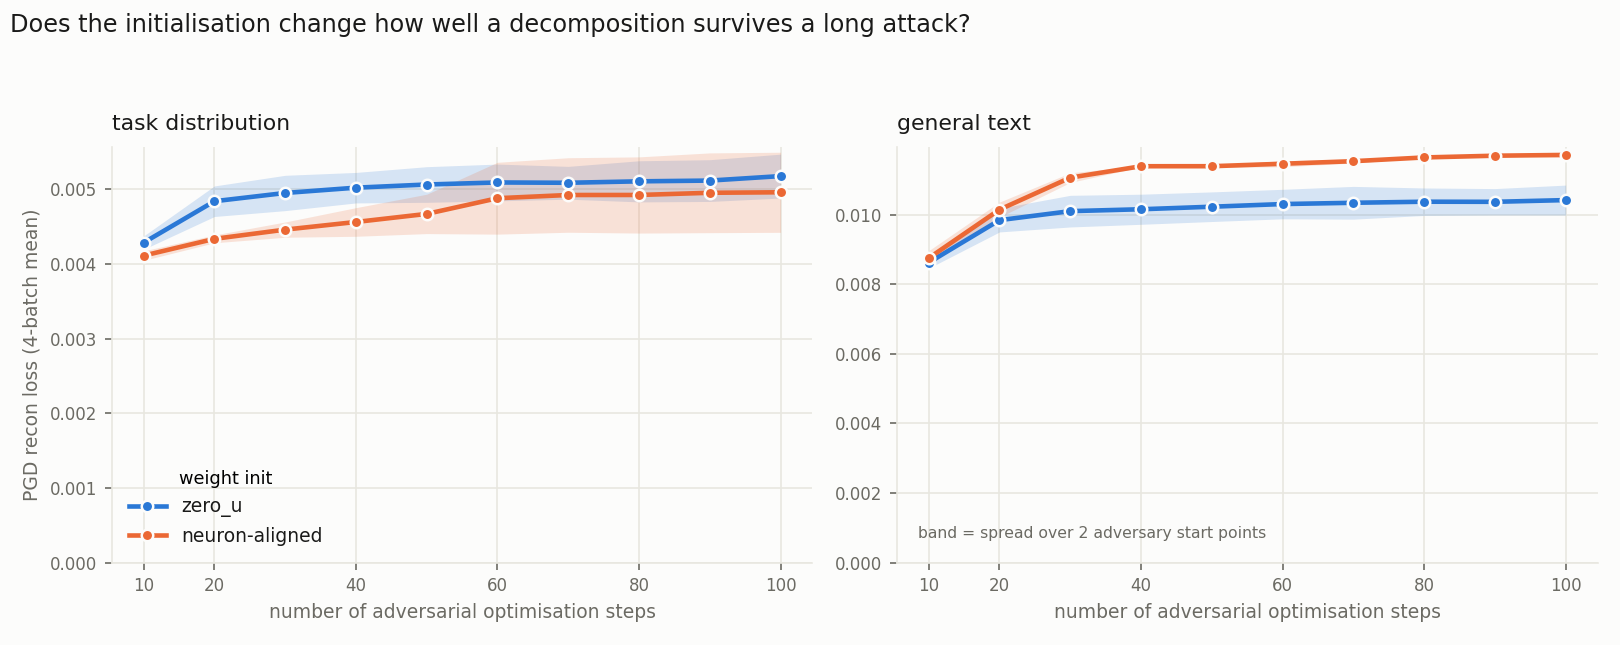
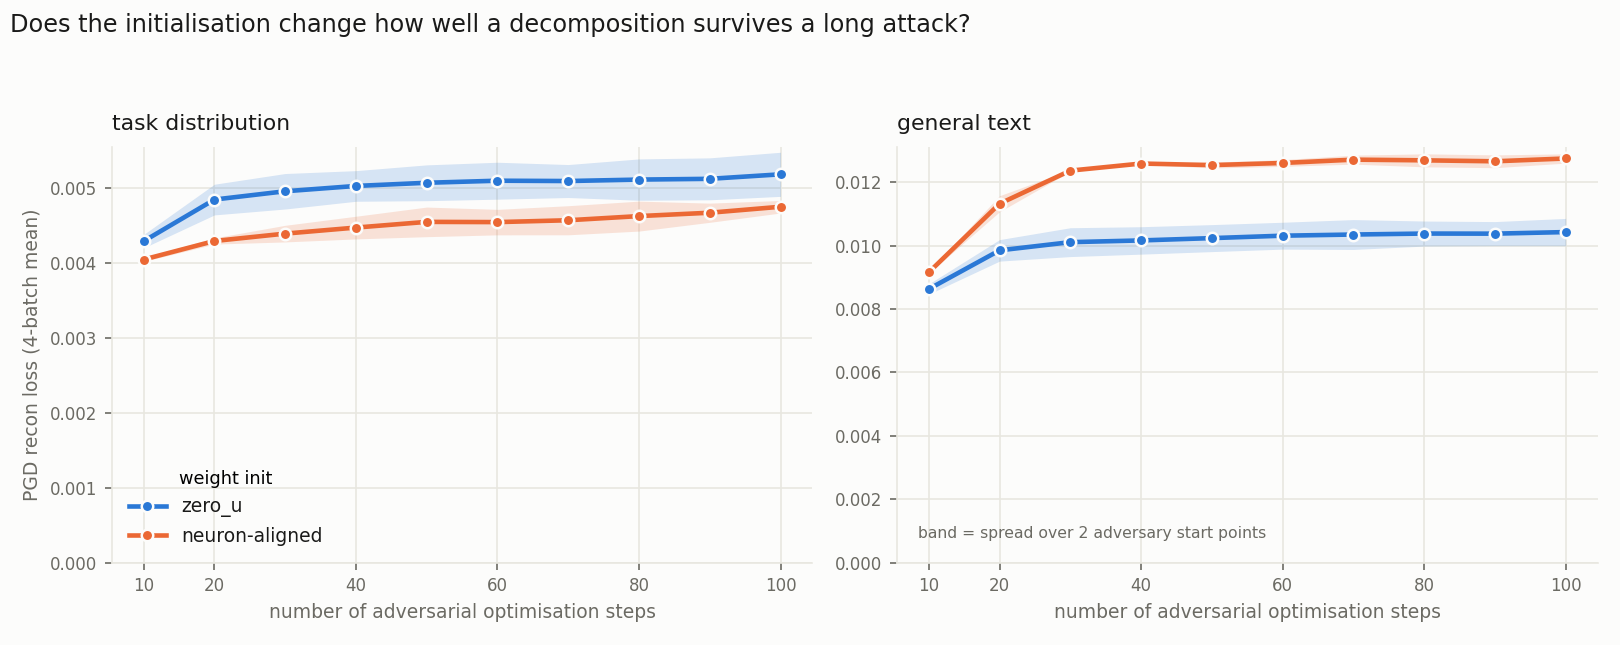
docs: init robustness on the current neuron-aligned run
Replaces p-222d379b (addsub-L18-18, pre-#1001 pd.weight_init schema) with
p-6540dfdd (addsub-L18-23, post-#1001), which is the current aligned init and
covers every site kind including attention.

- general text: aligned is ~22% easier to attack at 100 steps (0.0127 vs 0.0104),
  more than twice either run's own adversary-start spread - the older run read 12%
- task distribution: aligned is ~10% HARDER to attack (0.0047 vs 0.0052), a new
  direction the older pairing could not resolve (its spread reached 24%)
- both inits still saturate by ~40 steps, so the nonlinearity penalty's runaway
  remains specific to that penalty

The two runs straddle #1001 and no single build opens both; verified before
comparing that the probe computation is identical across the merge (core recon/
adversary/masking/recon byte-identical, eval-side change a pure refactor) and
that probe inputs match, so the curves are comparable. Recorded in the caveats.

Claude-Session: https://claude.ai/code/session_011EqWYtK2A5PugNTcQx2iAE

diff --git a/notes/report_init_pgd_robustness.md b/notes/report_init_pgd_robustness.md
@@ -3,59 +3,66 @@
 **Question.** Two L18 decompositions differing only in how their components were
 initialised — does one survive a long PGD attack better than the other?
 
-**Runs.** Both 20 000 steps, both opened and measured by *one* copy of the probe code, so
-this is immune to the eval-definition drift across the #1000 merge that made the runs' own
-logged metrics incomparable.
+**Runs.** Both 20 000 steps.
 
 | run | init |
 |---|---|
-| `p-88665048` | `zero_u` |
-| `p-222d379b` | `neuron_aligned_targeted` |
-
-A key-by-key config diff gives **4 differing keys**: `pd.weight_init`, the two
-`pd.neuron_ranks` fields the aligned init requires, and `run_name`. Nothing else.
+| `p-88665048` (`addsub-L18-22-zerou`) | `zero_u` |
+| `p-6540dfdd` (`addsub-L18-23-neuronaligned`) | `neuron_aligned_targeted` |
 
 **Probe.** Fresh PGD on the output CI head, end-to-end output KL, 4 fixed batches,
-10→100 steps, 2 adversary start points. Non-target arm is delta-pinned (SPEC T4).
-
-`zero_v` (`p-f73bde9d`) is excluded: it stopped at 7 505 steps and is not comparable.
+10→100 steps, 2 adversary start points, source shape `c` (one mask per site, shared across
+batch and position). Non-target arm is delta-pinned (SPEC T4).
 
 ![PGD vs adversarial steps by init](plots/init_pgd/01_init_pgd_vs_steps.png)
 
 ## What it shows
 
-**General text — the aligned init ends up ~12% easier to attack.** At 100 steps
-0.0117 against 0.0104. Both curves flatten by about 40 steps; the aligned run simply
-settles on a higher plateau.
+**General text — the aligned init is ~22% easier to attack.** At 100 steps 0.0127 against
+0.0104, and the gap opens from 20 steps onward. This one is solid: the between-init gap is
+more than twice either run's own spread across adversary start points (2% aligned, 9%
+`zero_u`).
 
-That gap is real but slim. `zero_u`'s own spread between the two adversary start points is
-8–9%, so the between-init difference is only just outside the within-init noise. Two start
-points and one training seed cannot separate them further.
+**Task distribution — the aligned init is ~10% *harder* to attack.** 0.0047 against 0.0052
+at 100 steps. Smaller than the off-distribution effect and only marginally outside the
+noise (`zero_u`'s own spread is 12% at that budget), so treat it as a hint, not a result.
 
-**Task distribution — no difference worth reporting.** The means sit within 5% of each
-other and the bands overlap across the whole sweep. The aligned run's spread between start
-points reaches **24%** at high budget, several times any gap between the schemes.
+So the alignment appears to buy a little on-distribution robustness and pay more for it
+off-distribution.
 
-**Neither init runs away.** Both saturate. This matters as a control for the nonlinearity
-penalty work: there, the penalised runs kept climbing to 2.5–3× while the control flattened.
-Here both arms flatten, so "keeps climbing under a longer attack" is a property of that
-penalty, not something every L18 decomposition does.
+**Neither init runs away.** Both saturate by ~40 steps. This matters as a control for the
+nonlinearity-penalty work: there the penalised runs kept climbing to 2.5–3× while their
+control flattened. Here both arms flatten, so "keeps climbing under a longer attack" is a
+property of that penalty, not something every L18 decomposition does.
 
 ## Numbers (mean over 2 adversary start points)
 
 | steps | 10 | 20 | 40 | 60 | 80 | 100 |
 |---|---|---|---|---|---|---|
 | task, `zero_u` | 0.0043 | 0.0048 | 0.0050 | 0.0051 | 0.0051 | 0.0052 |
-| task, aligned | 0.0041 | 0.0043 | 0.0046 | 0.0049 | 0.0049 | 0.0050 |
+| task, aligned | 0.0040 | 0.0043 | 0.0045 | 0.0045 | 0.0046 | 0.0047 |
 | general, `zero_u` | 0.0086 | 0.0098 | 0.0102 | 0.0103 | 0.0104 | 0.0104 |
-| general, aligned | 0.0088 | 0.0102 | 0.0114 | 0.0115 | 0.0117 | 0.0117 |
+| general, aligned | 0.0092 | 0.0113 | 0.0126 | 0.0126 | 0.0127 | 0.0127 |
 
 ## Caveats
 
-- One training seed per init; two adversary start points. Enough to see a 12% plateau
-  difference off-distribution, not enough to call it established.
-- A 20-step probe reads 0.0098 vs 0.0102 — it would have shown nothing. Quote the step
-  budget with any of these numbers.
-- No coupled baseline: `p-5b7fa697`'s pin predates #1000 and this code cannot open it, and
-  pins are immutable (CONFIGS.md rule 4). A same-code coupled twin at 20k is the only way
-  to add one.
+- One training seed per init; two adversary start points. Enough for the 22%
+  off-distribution gap, not for the 10% on-distribution one.
+- A 20-step probe reads 0.0098 vs 0.0113 — it sees about half the eventual gap. Quote the
+  step budget with any of these numbers.
+- **The two runs sit on opposite sides of the #1001 merge** and no single build can open
+  both: `zero_u` uses the retired `pd.weight_init`, the aligned run uses
+  `decomposition.sites.initialization`. They were therefore measured by two builds, which
+  is only sound because the probe's computation is unchanged between them —
+  `core/{recon_eval,adversary,masking,recon}.py` are byte-identical, `reconstruction_loss`
+  and `_row_masked_kl` identical, `prepare_lm_batch` identical apart from a rename, and
+  `make_fresh_pgd_step` a pure extraction into `make_fresh_pgd_scorer`. Probe inputs match
+  too (`pd.seed` 0, eval batch 128, step size 0.1, 4 batches, same prompts and eval shard),
+  so both runs see the same fixed batches. Re-verify this if either side moves again.
+- Post-#1001 the aligned init covers **every site kind including attention**; the earlier
+  `addsub-L18-18-neuronaligned-bosincl` run did not, and referenced a `neuron_ranks`
+  artifact the new schema drops. This report uses the current variant, so its numbers are
+  not interchangeable with earlier ones for that run.
+- No coupled baseline: `p-5b7fa697`'s pin predates #1000 and no current build can open it,
+  and pins are immutable (CONFIGS.md rule 4). A same-code coupled twin at 20k is the only
+  way to add one.
